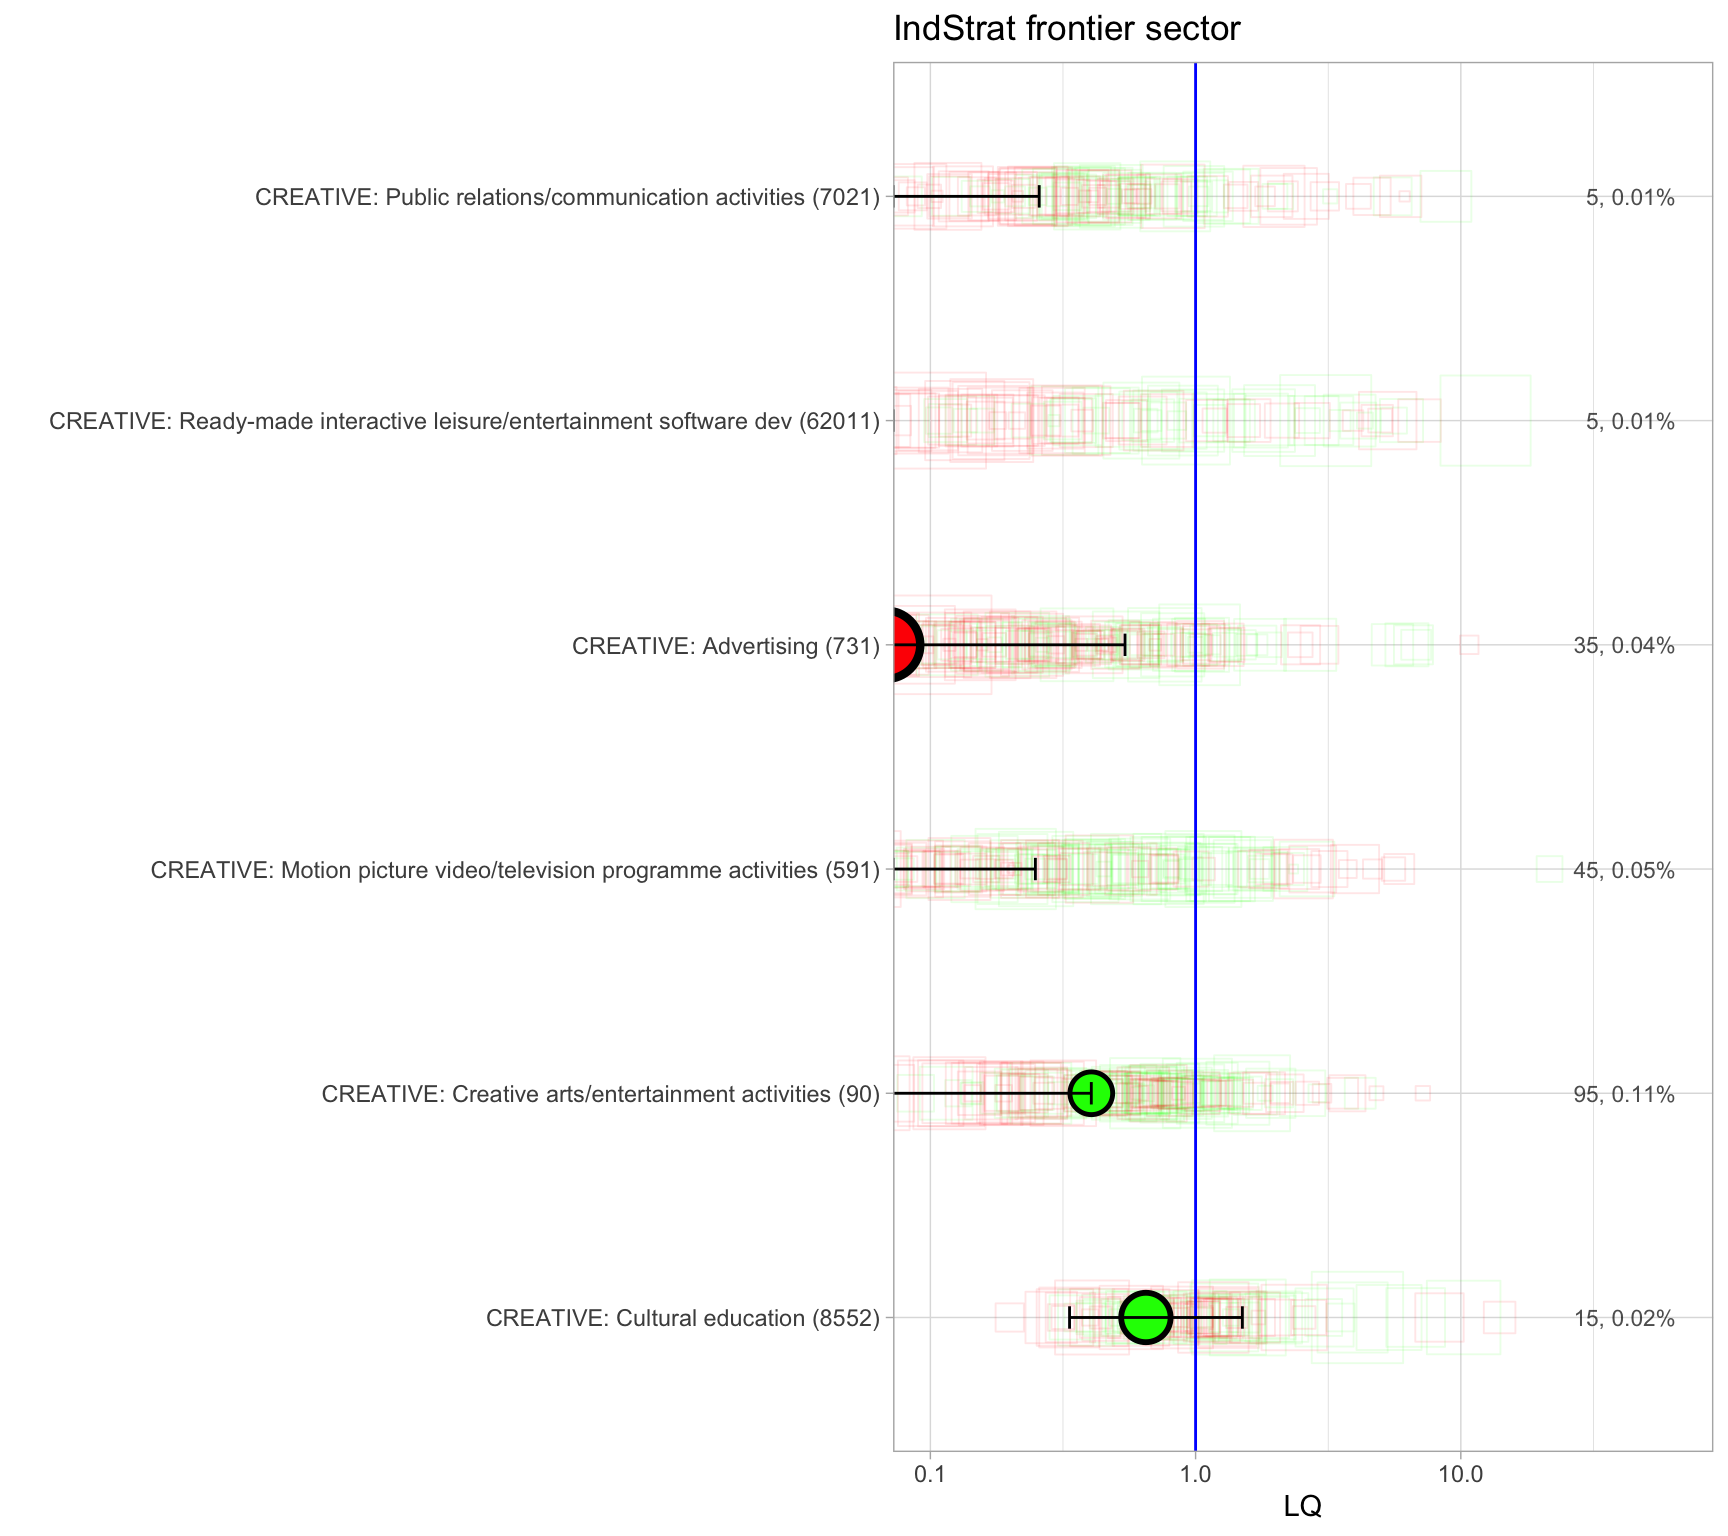
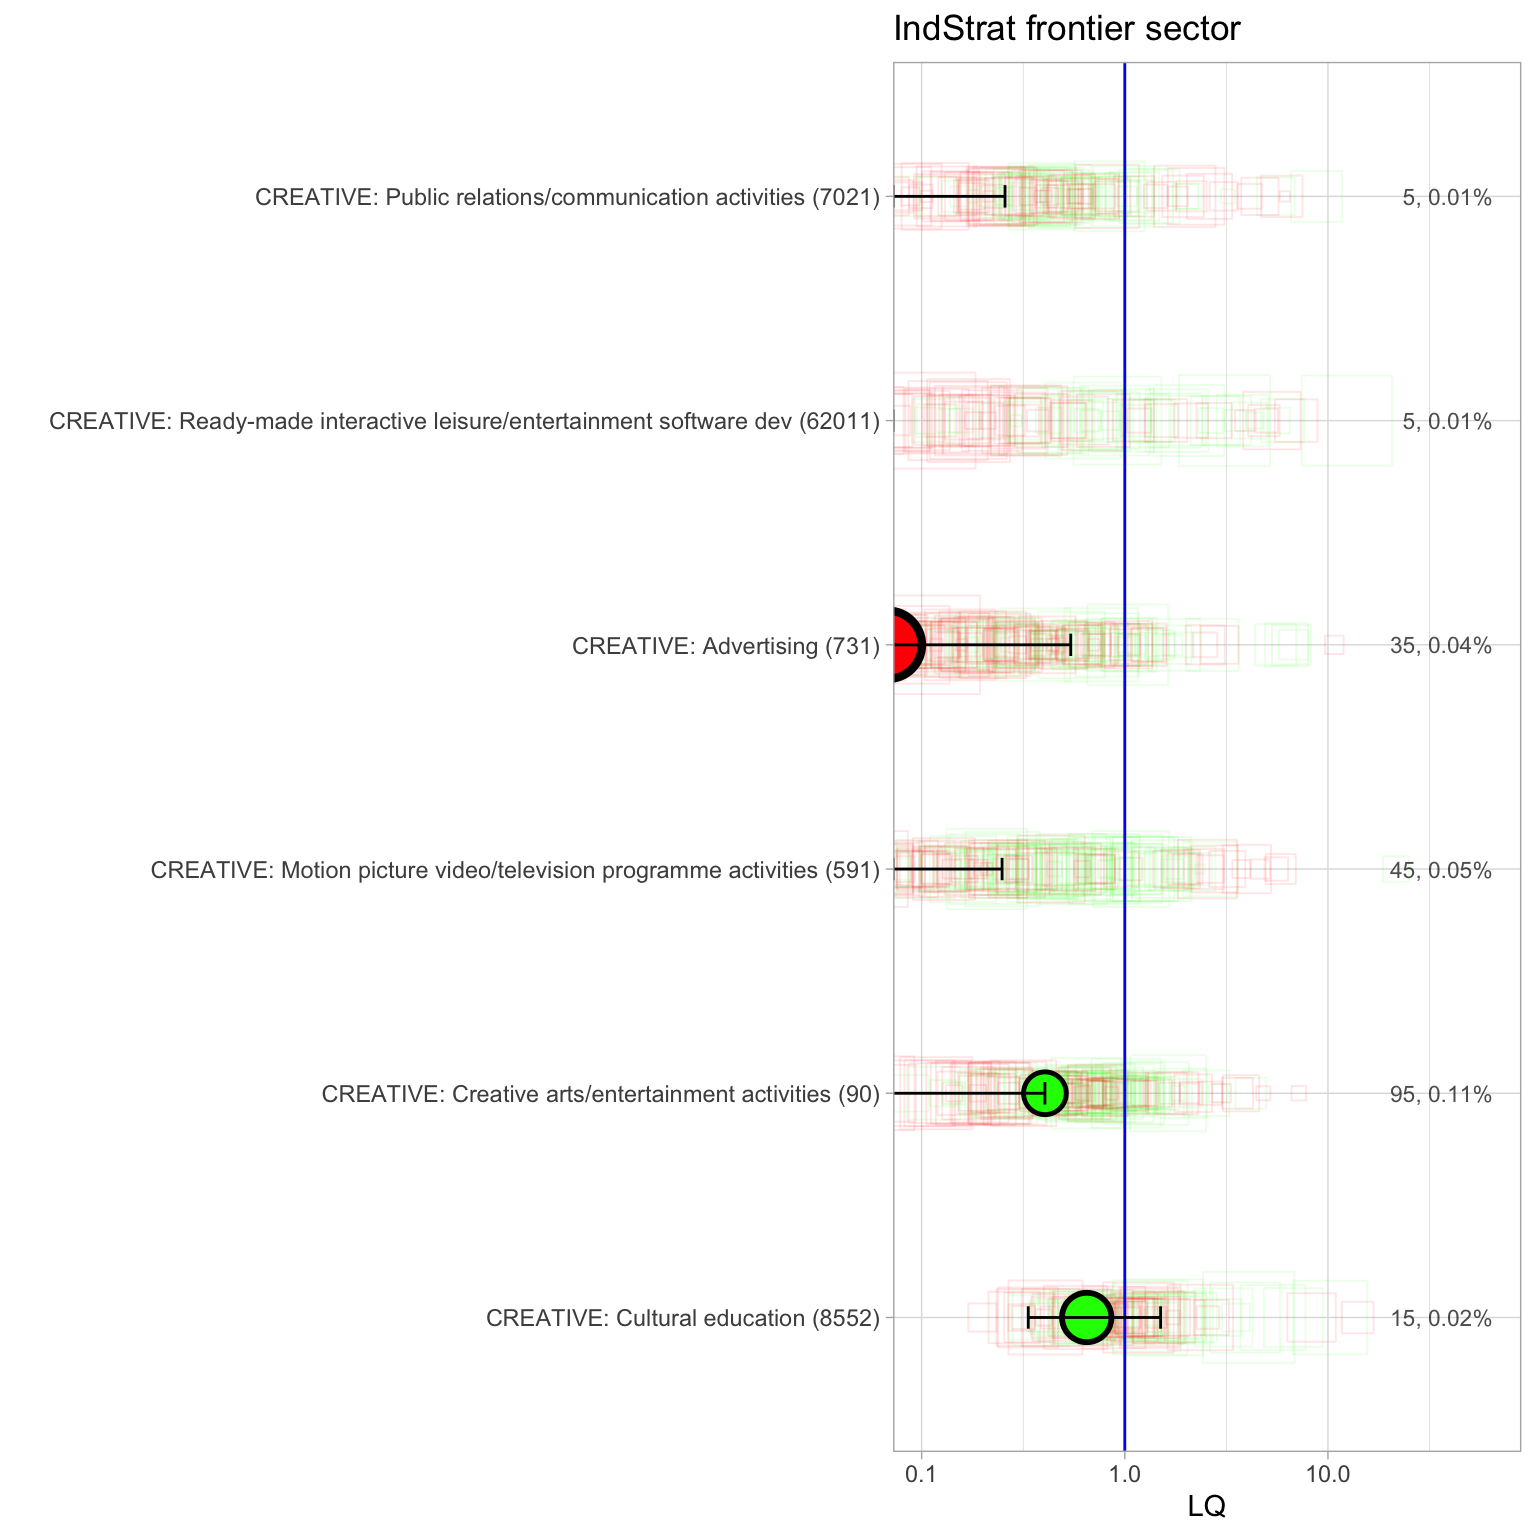
SY creative industrial strat data for 2025

diff --git a/docs/quarto_docs/SY_creativeindustries_Oct2025.html b/docs/quarto_docs/SY_creativeindustries_Oct2025.html
@@ -275,10 +275,10 @@ Figure&nbsp;1
 <h3 class="anchored" data-anchor-id="companies-house-frontier-sectors">Companies house frontier sectors</h3>
 <div class="cell">
 <div class="cell-output-display">
-<div id="fig-chindstrat" class="quarto-float quarto-figure quarto-figure-center anchored" width="864">
+<div id="fig-chindstrat" class="quarto-float quarto-figure quarto-figure-center anchored" width="768">
 <figure class="quarto-float quarto-float-fig figure">
 <div aria-describedby="fig-chindstrat-caption-0ceaefa1-69ba-4598-a22c-09a6ac19f8ca">
-<img src="SouthYorkshire_creativeindustries_Oct2025_files/figure-html/fig-chindstrat-1.png" id="fig-chindstrat" width="864" class="figure-img">
+<img src="SouthYorkshire_creativeindustries_Oct2025_files/figure-html/fig-chindstrat-1.png" id="fig-chindstrat" width="768" class="figure-img">
 </div>
 <figcaption class="quarto-float-caption-bottom quarto-float-caption quarto-float-fig quarto-uncaptioned" id="fig-chindstrat-caption-0ceaefa1-69ba-4598-a22c-09a6ac19f8ca">
 Figure&nbsp;2
@@ -295,10 +295,10 @@ Figure&nbsp;2
 <h3 class="anchored" data-anchor-id="bres-other-sectors">BRES other sectors</h3>
 <div class="cell">
 <div class="cell-output-display">
-<div id="fig-bresindstrat2" class="quarto-float quarto-figure quarto-figure-center anchored" width="864">
+<div id="fig-bresindstrat2" class="quarto-float quarto-figure quarto-figure-center anchored" width="768">
 <figure class="quarto-float quarto-float-fig figure">
 <div aria-describedby="fig-bresindstrat2-caption-0ceaefa1-69ba-4598-a22c-09a6ac19f8ca">
-<img src="SouthYorkshire_creativeindustries_Oct2025_files/figure-html/fig-bresindstrat2-1.png" id="fig-bresindstrat2" width="864" class="figure-img">
+<img src="SouthYorkshire_creativeindustries_Oct2025_files/figure-html/fig-bresindstrat2-1.png" id="fig-bresindstrat2" width="768" class="figure-img">
 </div>
 <figcaption class="quarto-float-caption-bottom quarto-float-caption quarto-float-fig quarto-uncaptioned" id="fig-bresindstrat2-caption-0ceaefa1-69ba-4598-a22c-09a6ac19f8ca">
 Figure&nbsp;3
@@ -312,10 +312,10 @@ Figure&nbsp;3
 <h3 class="anchored" data-anchor-id="companies-house-other-sectors">Companies House other sectors</h3>
 <div class="cell">
 <div class="cell-output-display">
-<div id="fig-chindstrat2" class="quarto-float quarto-figure quarto-figure-center anchored" width="864">
+<div id="fig-chindstrat2" class="quarto-float quarto-figure quarto-figure-center anchored" width="768">
 <figure class="quarto-float quarto-float-fig figure">
 <div aria-describedby="fig-chindstrat2-caption-0ceaefa1-69ba-4598-a22c-09a6ac19f8ca">
-<img src="SouthYorkshire_creativeindustries_Oct2025_files/figure-html/fig-chindstrat2-1.png" id="fig-chindstrat2" width="864" class="figure-img">
+<img src="SouthYorkshire_creativeindustries_Oct2025_files/figure-html/fig-chindstrat2-1.png" id="fig-chindstrat2" width="768" class="figure-img">
 </div>
 <figcaption class="quarto-float-caption-bottom quarto-float-caption quarto-float-fig quarto-uncaptioned" id="fig-chindstrat2-caption-0ceaefa1-69ba-4598-a22c-09a6ac19f8ca">
 Figure&nbsp;4
@@ -335,10 +335,10 @@ Figure&nbsp;4
 <h3 class="anchored" data-anchor-id="bres-frontier-sectors-1">BRES frontier sectors</h3>
 <div class="cell">
 <div class="cell-output-display">
-<div id="fig-bresindstrat_bn" class="quarto-float quarto-figure quarto-figure-center anchored" width="864">
+<div id="fig-bresindstrat_bn" class="quarto-float quarto-figure quarto-figure-center anchored" width="768">
 <figure class="quarto-float quarto-float-fig figure">
 <div aria-describedby="fig-bresindstrat_bn-caption-0ceaefa1-69ba-4598-a22c-09a6ac19f8ca">
-<img src="SouthYorkshire_creativeindustries_Oct2025_files/figure-html/fig-bresindstrat_bn-1.png" id="fig-bresindstrat_bn" width="864" class="figure-img">
+<img src="SouthYorkshire_creativeindustries_Oct2025_files/figure-html/fig-bresindstrat_bn-1.png" id="fig-bresindstrat_bn" width="768" class="figure-img">
 </div>
 <figcaption class="quarto-float-caption-bottom quarto-float-caption quarto-float-fig quarto-uncaptioned" id="fig-bresindstrat_bn-caption-0ceaefa1-69ba-4598-a22c-09a6ac19f8ca">
 Figure&nbsp;5
@@ -352,10 +352,10 @@ Figure&nbsp;5
 <h3 class="anchored" data-anchor-id="companies-house-frontier-sectors-1">Companies house frontier sectors</h3>
 <div class="cell">
 <div class="cell-output-display">
-<div id="fig-chindstrat_bn" class="quarto-float quarto-figure quarto-figure-center anchored" width="864">
+<div id="fig-chindstrat_bn" class="quarto-float quarto-figure quarto-figure-center anchored" width="768">
 <figure class="quarto-float quarto-float-fig figure">
 <div aria-describedby="fig-chindstrat_bn-caption-0ceaefa1-69ba-4598-a22c-09a6ac19f8ca">
-<img src="SouthYorkshire_creativeindustries_Oct2025_files/figure-html/fig-chindstrat_bn-1.png" id="fig-chindstrat_bn" width="864" class="figure-img">
+<img src="SouthYorkshire_creativeindustries_Oct2025_files/figure-html/fig-chindstrat_bn-1.png" id="fig-chindstrat_bn" width="768" class="figure-img">
 </div>
 <figcaption class="quarto-float-caption-bottom quarto-float-caption quarto-float-fig quarto-uncaptioned" id="fig-chindstrat_bn-caption-0ceaefa1-69ba-4598-a22c-09a6ac19f8ca">
 Figure&nbsp;6
@@ -372,10 +372,10 @@ Figure&nbsp;6
 <h3 class="anchored" data-anchor-id="bres-other-sectors-1">BRES other sectors</h3>
 <div class="cell">
 <div class="cell-output-display">
-<div id="fig-bresindstrat2_bn" class="quarto-float quarto-figure quarto-figure-center anchored" width="864">
+<div id="fig-bresindstrat2_bn" class="quarto-float quarto-figure quarto-figure-center anchored" width="768">
 <figure class="quarto-float quarto-float-fig figure">
 <div aria-describedby="fig-bresindstrat2_bn-caption-0ceaefa1-69ba-4598-a22c-09a6ac19f8ca">
-<img src="SouthYorkshire_creativeindustries_Oct2025_files/figure-html/fig-bresindstrat2_bn-1.png" id="fig-bresindstrat2_bn" width="864" class="figure-img">
+<img src="SouthYorkshire_creativeindustries_Oct2025_files/figure-html/fig-bresindstrat2_bn-1.png" id="fig-bresindstrat2_bn" width="768" class="figure-img">
 </div>
 <figcaption class="quarto-float-caption-bottom quarto-float-caption quarto-float-fig quarto-uncaptioned" id="fig-bresindstrat2_bn-caption-0ceaefa1-69ba-4598-a22c-09a6ac19f8ca">
 Figure&nbsp;7
@@ -389,10 +389,10 @@ Figure&nbsp;7
 <h3 class="anchored" data-anchor-id="companies-house-other-sectors-1">Companies House other sectors</h3>
 <div class="cell">
 <div class="cell-output-display">
-<div id="fig-chindstrat2_bn" class="quarto-float quarto-figure quarto-figure-center anchored" width="864">
+<div id="fig-chindstrat2_bn" class="quarto-float quarto-figure quarto-figure-center anchored" width="768">
 <figure class="quarto-float quarto-float-fig figure">
 <div aria-describedby="fig-chindstrat2_bn-caption-0ceaefa1-69ba-4598-a22c-09a6ac19f8ca">
-<img src="SouthYorkshire_creativeindustries_Oct2025_files/figure-html/fig-chindstrat2_bn-1.png" id="fig-chindstrat2_bn" width="864" class="figure-img">
+<img src="SouthYorkshire_creativeindustries_Oct2025_files/figure-html/fig-chindstrat2_bn-1.png" id="fig-chindstrat2_bn" width="768" class="figure-img">
 </div>
 <figcaption class="quarto-float-caption-bottom quarto-float-caption quarto-float-fig quarto-uncaptioned" id="fig-chindstrat2_bn-caption-0ceaefa1-69ba-4598-a22c-09a6ac19f8ca">
 Figure&nbsp;8
@@ -412,10 +412,10 @@ Figure&nbsp;8
 <h3 class="anchored" data-anchor-id="bres-frontier-sectors-2">BRES frontier sectors</h3>
 <div class="cell">
 <div class="cell-output-display">
-<div id="fig-bresindstrat_dn" class="quarto-float quarto-figure quarto-figure-center anchored" width="864">
+<div id="fig-bresindstrat_dn" class="quarto-float quarto-figure quarto-figure-center anchored" width="768">
 <figure class="quarto-float quarto-float-fig figure">
 <div aria-describedby="fig-bresindstrat_dn-caption-0ceaefa1-69ba-4598-a22c-09a6ac19f8ca">
-<img src="SouthYorkshire_creativeindustries_Oct2025_files/figure-html/fig-bresindstrat_dn-1.png" id="fig-bresindstrat_dn" width="864" class="figure-img">
+<img src="SouthYorkshire_creativeindustries_Oct2025_files/figure-html/fig-bresindstrat_dn-1.png" id="fig-bresindstrat_dn" width="768" class="figure-img">
 </div>
 <figcaption class="quarto-float-caption-bottom quarto-float-caption quarto-float-fig quarto-uncaptioned" id="fig-bresindstrat_dn-caption-0ceaefa1-69ba-4598-a22c-09a6ac19f8ca">
 Figure&nbsp;9
@@ -429,10 +429,10 @@ Figure&nbsp;9
 <h3 class="anchored" data-anchor-id="companies-house-frontier-sectors-2">Companies house frontier sectors</h3>
 <div class="cell">
 <div class="cell-output-display">
-<div id="fig-chindstrat_dn" class="quarto-float quarto-figure quarto-figure-center anchored" width="864">
+<div id="fig-chindstrat_dn" class="quarto-float quarto-figure quarto-figure-center anchored" width="768">
 <figure class="quarto-float quarto-float-fig figure">
 <div aria-describedby="fig-chindstrat_dn-caption-0ceaefa1-69ba-4598-a22c-09a6ac19f8ca">
-<img src="SouthYorkshire_creativeindustries_Oct2025_files/figure-html/fig-chindstrat_dn-1.png" id="fig-chindstrat_dn" width="864" class="figure-img">
+<img src="SouthYorkshire_creativeindustries_Oct2025_files/figure-html/fig-chindstrat_dn-1.png" id="fig-chindstrat_dn" width="768" class="figure-img">
 </div>
 <figcaption class="quarto-float-caption-bottom quarto-float-caption quarto-float-fig quarto-uncaptioned" id="fig-chindstrat_dn-caption-0ceaefa1-69ba-4598-a22c-09a6ac19f8ca">
 Figure&nbsp;10
@@ -449,10 +449,10 @@ Figure&nbsp;10
 <h3 class="anchored" data-anchor-id="bres-other-sectors-2">BRES other sectors</h3>
 <div class="cell">
 <div class="cell-output-display">
-<div id="fig-bresindstrat2_dn" class="quarto-float quarto-figure quarto-figure-center anchored" width="864">
+<div id="fig-bresindstrat2_dn" class="quarto-float quarto-figure quarto-figure-center anchored" width="768">
 <figure class="quarto-float quarto-float-fig figure">
 <div aria-describedby="fig-bresindstrat2_dn-caption-0ceaefa1-69ba-4598-a22c-09a6ac19f8ca">
-<img src="SouthYorkshire_creativeindustries_Oct2025_files/figure-html/fig-bresindstrat2_dn-1.png" id="fig-bresindstrat2_dn" width="864" class="figure-img">
+<img src="SouthYorkshire_creativeindustries_Oct2025_files/figure-html/fig-bresindstrat2_dn-1.png" id="fig-bresindstrat2_dn" width="768" class="figure-img">
 </div>
 <figcaption class="quarto-float-caption-bottom quarto-float-caption quarto-float-fig quarto-uncaptioned" id="fig-bresindstrat2_dn-caption-0ceaefa1-69ba-4598-a22c-09a6ac19f8ca">
 Figure&nbsp;11
@@ -466,10 +466,10 @@ Figure&nbsp;11
 <h3 class="anchored" data-anchor-id="companies-house-other-sectors-2">Companies House other sectors</h3>
 <div class="cell">
 <div class="cell-output-display">
-<div id="fig-chindstrat2_dn" class="quarto-float quarto-figure quarto-figure-center anchored" width="864">
+<div id="fig-chindstrat2_dn" class="quarto-float quarto-figure quarto-figure-center anchored" width="768">
 <figure class="quarto-float quarto-float-fig figure">
 <div aria-describedby="fig-chindstrat2_dn-caption-0ceaefa1-69ba-4598-a22c-09a6ac19f8ca">
-<img src="SouthYorkshire_creativeindustries_Oct2025_files/figure-html/fig-chindstrat2_dn-1.png" id="fig-chindstrat2_dn" width="864" class="figure-img">
+<img src="SouthYorkshire_creativeindustries_Oct2025_files/figure-html/fig-chindstrat2_dn-1.png" id="fig-chindstrat2_dn" width="768" class="figure-img">
 </div>
 <figcaption class="quarto-float-caption-bottom quarto-float-caption quarto-float-fig quarto-uncaptioned" id="fig-chindstrat2_dn-caption-0ceaefa1-69ba-4598-a22c-09a6ac19f8ca">
 Figure&nbsp;12
@@ -489,10 +489,10 @@ Figure&nbsp;12
 <h3 class="anchored" data-anchor-id="bres-frontier-sectors-3">BRES frontier sectors</h3>
 <div class="cell">
 <div class="cell-output-display">
-<div id="fig-bresindstrat_rth" class="quarto-float quarto-figure quarto-figure-center anchored" width="864">
+<div id="fig-bresindstrat_rth" class="quarto-float quarto-figure quarto-figure-center anchored" width="768">
 <figure class="quarto-float quarto-float-fig figure">
 <div aria-describedby="fig-bresindstrat_rth-caption-0ceaefa1-69ba-4598-a22c-09a6ac19f8ca">
-<img src="SouthYorkshire_creativeindustries_Oct2025_files/figure-html/fig-bresindstrat_rth-1.png" id="fig-bresindstrat_rth" width="864" class="figure-img">
+<img src="SouthYorkshire_creativeindustries_Oct2025_files/figure-html/fig-bresindstrat_rth-1.png" id="fig-bresindstrat_rth" width="768" class="figure-img">
 </div>
 <figcaption class="quarto-float-caption-bottom quarto-float-caption quarto-float-fig quarto-uncaptioned" id="fig-bresindstrat_rth-caption-0ceaefa1-69ba-4598-a22c-09a6ac19f8ca">
 Figure&nbsp;13
@@ -506,10 +506,10 @@ Figure&nbsp;13
 <h3 class="anchored" data-anchor-id="companies-house-frontier-sectors-3">Companies house frontier sectors</h3>
 <div class="cell">
 <div class="cell-output-display">
-<div id="fig-chindstrat_rth" class="quarto-float quarto-figure quarto-figure-center anchored" width="864">
+<div id="fig-chindstrat_rth" class="quarto-float quarto-figure quarto-figure-center anchored" width="768">
 <figure class="quarto-float quarto-float-fig figure">
 <div aria-describedby="fig-chindstrat_rth-caption-0ceaefa1-69ba-4598-a22c-09a6ac19f8ca">
-<img src="SouthYorkshire_creativeindustries_Oct2025_files/figure-html/fig-chindstrat_rth-1.png" id="fig-chindstrat_rth" width="864" class="figure-img">
+<img src="SouthYorkshire_creativeindustries_Oct2025_files/figure-html/fig-chindstrat_rth-1.png" id="fig-chindstrat_rth" width="768" class="figure-img">
 </div>
 <figcaption class="quarto-float-caption-bottom quarto-float-caption quarto-float-fig quarto-uncaptioned" id="fig-chindstrat_rth-caption-0ceaefa1-69ba-4598-a22c-09a6ac19f8ca">
 Figure&nbsp;14
@@ -526,10 +526,10 @@ Figure&nbsp;14
 <h3 class="anchored" data-anchor-id="bres-other-sectors-3">BRES other sectors</h3>
 <div class="cell">
 <div class="cell-output-display">
-<div id="fig-bresindstrat2_rth" class="quarto-float quarto-figure quarto-figure-center anchored" width="864">
+<div id="fig-bresindstrat2_rth" class="quarto-float quarto-figure quarto-figure-center anchored" width="768">
 <figure class="quarto-float quarto-float-fig figure">
 <div aria-describedby="fig-bresindstrat2_rth-caption-0ceaefa1-69ba-4598-a22c-09a6ac19f8ca">
-<img src="SouthYorkshire_creativeindustries_Oct2025_files/figure-html/fig-bresindstrat2_rth-1.png" id="fig-bresindstrat2_rth" width="864" class="figure-img">
+<img src="SouthYorkshire_creativeindustries_Oct2025_files/figure-html/fig-bresindstrat2_rth-1.png" id="fig-bresindstrat2_rth" width="768" class="figure-img">
 </div>
 <figcaption class="quarto-float-caption-bottom quarto-float-caption quarto-float-fig quarto-uncaptioned" id="fig-bresindstrat2_rth-caption-0ceaefa1-69ba-4598-a22c-09a6ac19f8ca">
 Figure&nbsp;15
@@ -543,10 +543,10 @@ Figure&nbsp;15
 <h3 class="anchored" data-anchor-id="companies-house-other-sectors-3">Companies House other sectors</h3>
 <div class="cell">
 <div class="cell-output-display">
-<div id="fig-chindstrat2_rth" class="quarto-float quarto-figure quarto-figure-center anchored" width="864">
+<div id="fig-chindstrat2_rth" class="quarto-float quarto-figure quarto-figure-center anchored" width="768">
 <figure class="quarto-float quarto-float-fig figure">
 <div aria-describedby="fig-chindstrat2_rth-caption-0ceaefa1-69ba-4598-a22c-09a6ac19f8ca">
-<img src="SouthYorkshire_creativeindustries_Oct2025_files/figure-html/fig-chindstrat2_rth-1.png" id="fig-chindstrat2_rth" width="864" class="figure-img">
+<img src="SouthYorkshire_creativeindustries_Oct2025_files/figure-html/fig-chindstrat2_rth-1.png" id="fig-chindstrat2_rth" width="768" class="figure-img">
 </div>
 <figcaption class="quarto-float-caption-bottom quarto-float-caption quarto-float-fig quarto-uncaptioned" id="fig-chindstrat2_rth-caption-0ceaefa1-69ba-4598-a22c-09a6ac19f8ca">
 Figure&nbsp;16
